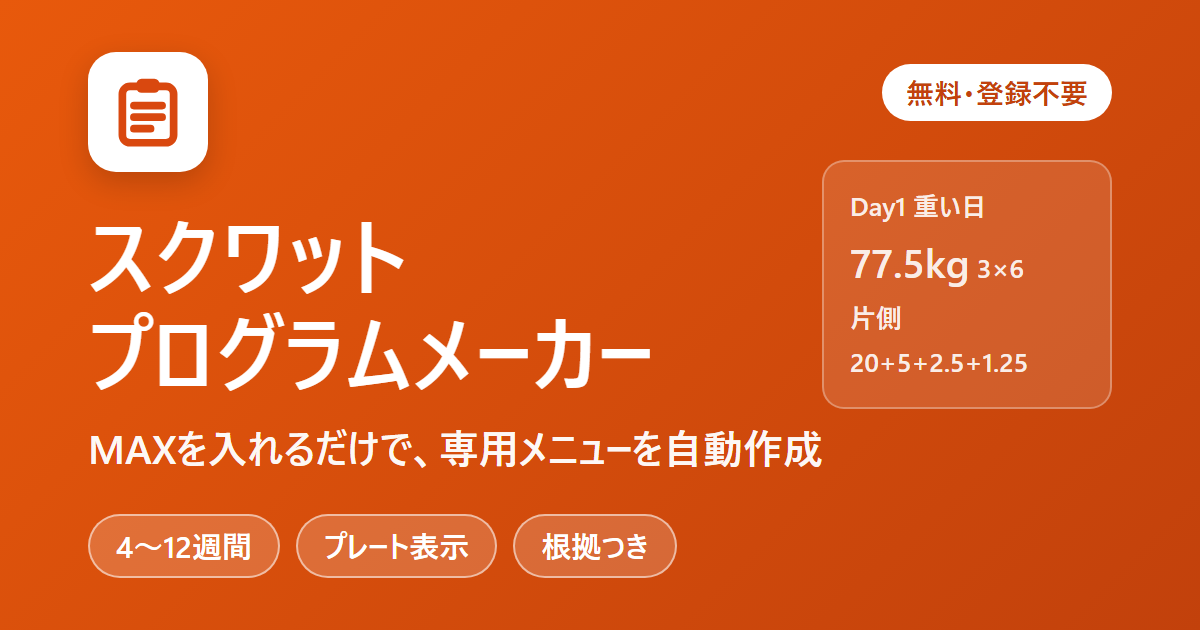
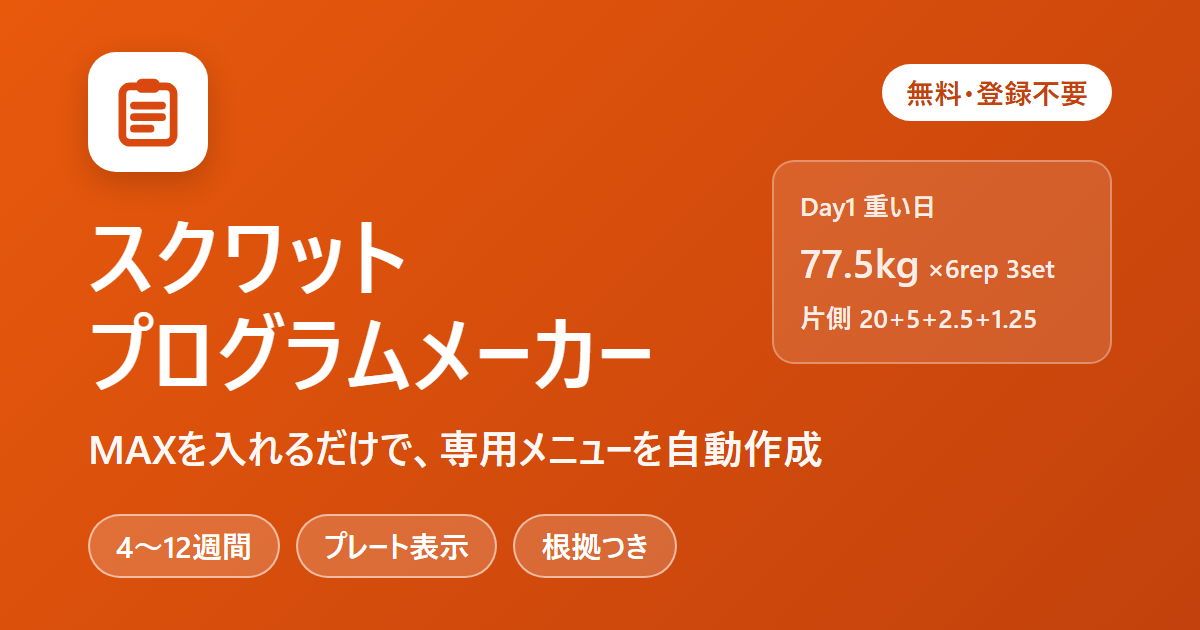
Show sets and reps as "92.5kg ×6rep 3set"
The user found "3セット × 6回" harder to read.

Changed region(s): [[0.6167, 0.2413, 0.925, 0.6635]]

diff --git a/js/app.js b/js/app.js
@@ -57,6 +57,8 @@
   }
 
   const kg = x => (Math.round(x * 100) / 100).toString();
+  // 回数の表示（例: 6 → '6rep'、'10回' → '10rep'。秒で数える種目はそのまま）
+  const repText = r => (typeof r === 'number' ? r + 'rep' : String(r).replace(/回$/, 'rep'));
   const rirText = rir => (rir >= 5 ? 'たっぷり残す（あと5回以上）' : 'あと' + rir + '回');
 
   // ---- フォームの状態 ----
@@ -206,9 +208,9 @@
   function warmupBlock(list) {
     if (!list || !list.length) return null;
     return h('details', { class: 'warmup' },
-      h('summary', null, h('span', { class: 'wu-title', text: 'ウォームアップ' }), h('span', { class: 'wu-line', text: list.map(w => kg(w.weight) + '×' + w.reps).join(' → ') })),
+      h('summary', null, h('span', { class: 'wu-title', text: 'ウォームアップ' }), h('span', { class: 'wu-line' }, list.map((w, i) => [i ? ' → ' : null, h('span', { class: 'wu-step', text: kg(w.weight) + 'kg ×' + w.reps + 'rep' })]))),
       h('ol', { class: 'wu-list' }, list.map(w => h('li', null,
-        h('span', { class: 'ts-weight', text: kg(w.weight) + 'kg × ' + w.reps + '回' }),
+        h('span', { class: 'ts-weight', text: kg(w.weight) + 'kg ×' + w.reps + 'rep' }),
         h('span', { class: 'ts-note', text: SP.formatPlates(w.weight) })
       )))
     );
@@ -222,7 +224,7 @@
           h('span', { class: 'badge badge-part', text: e.target }),
           e.long ? h('span', { class: 'badge badge-long', text: '伸ばして効かせる' }) : null
         ),
-        h('div', { class: 'ex-load' }, h('span', { class: 'ex-sets-big', text: e.sets + 'セット × ' + e.repsText })),
+        h('div', { class: 'ex-load' }, h('span', { class: 'ex-sets-big', text: repText(e.repsText) + ' ' + e.sets + 'set' })),
         h('div', { class: 'ex-meta' },
           e.rirText ? h('span', { text: '余力 ' + e.rirText }) : null,
           h('span', { text: '休憩 ' + e.rest })
@@ -237,7 +239,7 @@
       ),
       h('div', { class: 'ex-load' },
         h('span', { class: 'ex-weight' }, kg(e.weight), h('small', { text: 'kg' })),
-        h('span', { class: 'ex-sets', text: e.sets + 'セット × ' + e.reps + '回' })
+        h('span', { class: 'ex-sets', text: '×' + repText(e.reps) + ' ' + e.sets + 'set' })
       ),
       h('div', { class: 'ex-meta' },
         h('span', { text: '余力 ' + rirText(e.rir) }),
@@ -308,8 +310,8 @@
       body = [
         h('p', { class: 'day-lead', text: (w.days.length > 1 ? '軽めの確認の日から2〜3日' : '前の週の最後のトレーニングから3日以上') + 'あけて行います。1本ごとに5分ほど休みます。補助者をつけるか、セーフティバーを正しい高さにしてください。' }),
         h('ol', { class: 'test-steps' },
-          d.warmup.map(x => h('li', null, h('span', { class: 'ts-weight', text: kg(x.weight) + 'kg × ' + x.reps + '回' }), h('span', { class: 'ts-note', text: 'ウォームアップ・' + x.plates }))),
-          d.attempts.map((a, i) => h('li', { class: 'is-attempt' }, h('span', { class: 'ts-weight', text: (i + 1) + '本目 ' + kg(a.weight) + 'kg × 1回' }), h('span', { class: 'ts-note', text: a.note + '・' + a.plates })))
+          d.warmup.map(x => h('li', null, h('span', { class: 'ts-weight', text: kg(x.weight) + 'kg ×' + x.reps + 'rep' }), h('span', { class: 'ts-note', text: 'ウォームアップ・' + x.plates }))),
+          d.attempts.map((a, i) => h('li', { class: 'is-attempt' }, h('span', { class: 'ts-weight', text: (i + 1) + '本目 ' + kg(a.weight) + 'kg ×1rep' }), h('span', { class: 'ts-note', text: a.note + '・' + a.plates })))
         ),
         h('p', { class: 'test-next', text: '1本目が楽に挙がったら2本目へ。きつかったら、そこで終わりにします。' }),
         nextCycleBox('test')
@@ -318,8 +320,8 @@
       body = [
         h('p', { class: 'day-lead', text: (w.days.length > 1 ? '軽い日から2〜3日' : '前の週の最後のトレーニングから3日以上') + 'あけて行います。ウォームアップのあと、' + kg(d.weight) + 'kg（今のMAXの' + Math.round(D.checkPct * 100) + '%）で1セットだけ、あと1回できるところまで続けます。' }),
         h('ol', { class: 'test-steps' },
-          d.warmup.map(x => h('li', null, h('span', { class: 'ts-weight', text: kg(x.weight) + 'kg × ' + x.reps + '回' }), h('span', { class: 'ts-note', text: 'ウォームアップ・' + x.plates }))),
-          h('li', { class: 'is-attempt' }, h('span', { class: 'ts-weight', text: kg(d.weight) + 'kg × できるだけ' }), h('span', { class: 'ts-note', text: 'あと1回できるところで止める・' + d.plates }))
+          d.warmup.map(x => h('li', null, h('span', { class: 'ts-weight', text: kg(x.weight) + 'kg ×' + x.reps + 'rep' }), h('span', { class: 'ts-note', text: 'ウォームアップ・' + x.plates }))),
+          h('li', { class: 'is-attempt' }, h('span', { class: 'ts-weight', text: kg(d.weight) + 'kg ×できるだけ' }), h('span', { class: 'ts-note', text: 'あと1回できるところで止める・' + d.plates }))
         ),
         nextCycleBox('check', d.weight)
       ];

diff --git a/css/style.css b/css/style.css
@@ -634,6 +634,7 @@ a.cite-chip:hover { background: var(--light-soft); }
 .warmup[open] summary::before { content: '▾'; }
 .wu-title { font-weight: 700; }
 .wu-line { color: var(--muted); font-variant-numeric: tabular-nums; }
+.wu-step { white-space: nowrap; }
 .wu-list { margin: 6px 0 0; padding-left: 1.6em; font-variant-numeric: tabular-nums; }
 .wu-list li { margin: 2px 0; }
 .wu-list .ts-note { display: inline; margin-left: 8px; }
